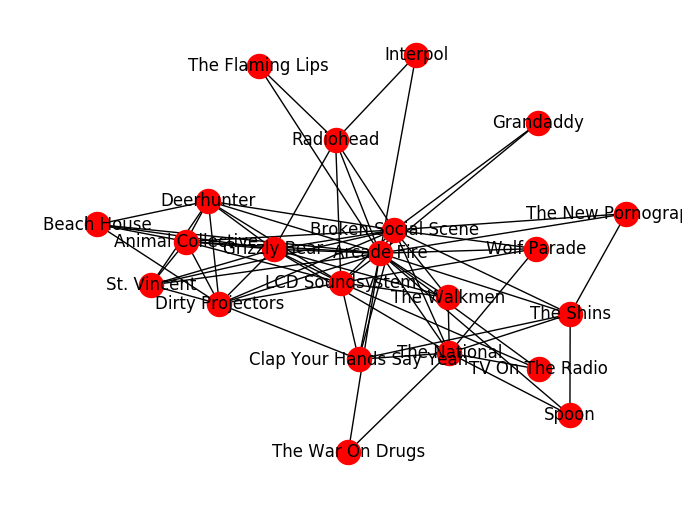
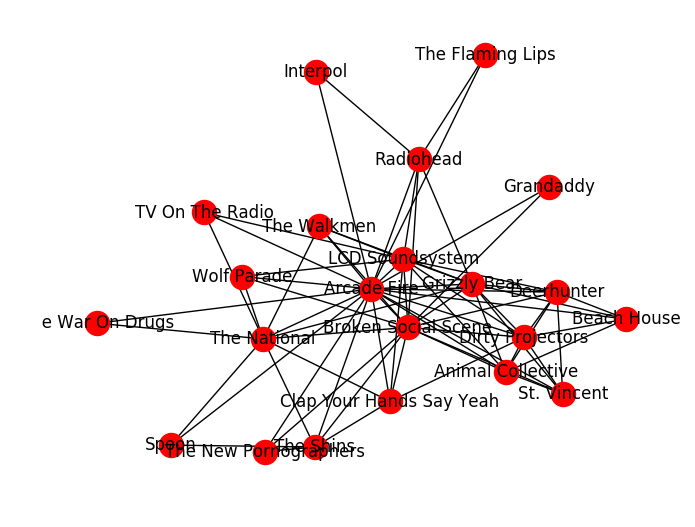
Collects more meaningful data from mongo on docs, and adds genre graph filtering to get a better view of the connected component subgraphs

Changed region(s): [[0.0604, 0.0607, 0.9971, 0.8805]]

diff --git a/genres_graph.py b/genres_graph.py
@@ -4,7 +4,12 @@ import networkx as nx
 import operator
 
 genres_map = save.load('genres_2017-09-11 01:33:42.733512')
+num_listens = save.load('total_number_of_listens_2017-09-13 00:33:36.633054')
+listening_history = save.load('listening_history_2017-09-13 00:33:36.631360')
+
 genres_map['Joey Badass'] = genres_map.pop('Joey Bada$$')
+num_listens['Joey Badass'] = num_listens.pop('Joey Bada$$')
+listening_history['Joey Badass'] = listening_history.pop('Joey Bada$$')
 
 all_genres = set([genre for genres in genres_map.values() for genre in genres])
 print('Number of genres: ',len(all_genres))
@@ -17,7 +22,17 @@ print('Number of connections: ', len(connections))
 B = nx.Graph()
 B.add_nodes_from(all_genres, bipartite=0)
 B.add_nodes_from(all_artists, bipartite=1)
-B.add_edges_from(connections)
+for artist, genres in genres_map.items():
+    for genre in genres:
+        B.add_edge(genre, artist, weight=num_listens[artist])
+
+# Filter the graph by edge weights
+# The idea behind this is to get a nicer understanding of the connected component subgraphs
+# Perhaps these subgraphs could act as a sort of equivalence relation on the genres...
+sigma = 100
+filtered_edges = [(u,v,d) for u,v,d in B.edges(data=True) if d['weight'] > sigma]
+B = nx.Graph()
+B.add_weighted_edges_from(filtered_edges)
 
 # Get number of connected components
 # The 0-labeled nodes can be thought of as genre clusters
@@ -41,6 +56,8 @@ l,r = nx.bipartite.sets(graphs[0])
 print('Number of genres in ccs1: ',len(l))
 print(l)
 
+
+# print all the subgraphs
 pos = {}
 pos.update((node,(1,index)) for index, node in enumerate(all_genres))
 pos.update((node,(2,index)) for index, node in enumerate(all_artists))

diff --git a/save_spotify_data.py b/save_spotify_data.py
@@ -6,6 +6,8 @@ from serialize import save
 
 related_artist_dict = {}
 genre_dict = {}
+listening_history_dict = {}
+total_number_of_listens_dict = {}
 for doc in q.get_all_artists():
     artist = doc['_id']
     print(artist)
@@ -14,6 +16,10 @@ for doc in q.get_all_artists():
         artist_id = info['id']
         related_artist_dict[artist] = sug.get_related_artists(artist_id=artist_id)
         genre_dict[artist] = genres.get_genres(info=info)
+        listening_history_dict[artist] = doc['songs']
+        total_number_of_listens_dict[artist] = doc['totalNumListens']
 
 save.save(related_artist_dict,'related_artists')
 save.save(genre_dict,'genres')
+save.save(listening_history_dict,'listening_history')
+save.save(total_number_of_listens_dict,'total_number_of_listens')

diff --git a/db/query.py b/db/query.py
@@ -5,8 +5,21 @@ mongo = get_songs_collection()
 def get_all_artists():
     cur = mongo.aggregate([
         {"$group": {
-            "_id": "$artist",
-            "count": {"$sum":1}
+            "_id": {
+                "artist": "$artist",
+                "album": "$album",
+                "song": "$name"
+                },
+            "numListens": {"$sum":1},
+            }},
+        {"$group": {
+            "_id": "$_id.artist",
+            "songs": {"$push": {
+                "song": "$_id.song",
+                "album": "$_id.album",
+                "numListens": "$numListens"
+                }},
+            "totalNumListens": {"$sum": "$numListens"}
             }},
         {"$sort": {
             "_id":1
